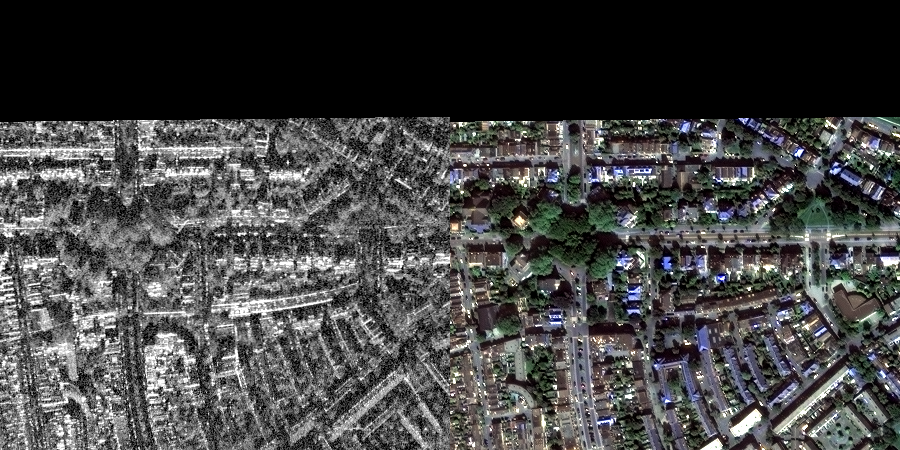
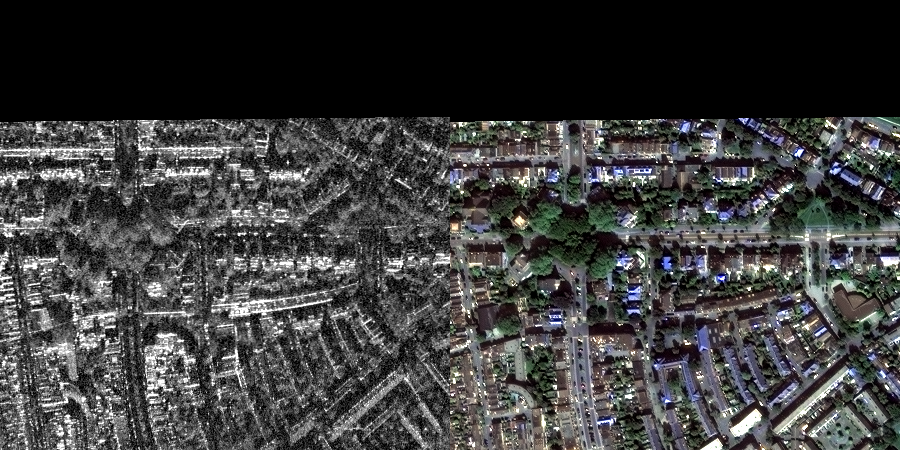
fix: treat sn6 sar intensity as db in gate0 quick-look (#4)

Changed region(s): [[0.0, 0.2489, 0.4978, 1.0], [0.4667, 0.2489, 0.4978, 0.28]]

diff --git a/scripts/gate0_check.py b/scripts/gate0_check.py
@@ -53,7 +53,8 @@ def main() -> None:
     print(f"same CRS + geotransform: {same_grid}")
 
     with tempfile.TemporaryDirectory() as tmp:
-        sar_img = render_quicklook(sar, Path(tmp) / "sar.png", [1], max_size=450, sar_db=True)
+        # SN6 SAR-Intensity is already 10*log10 (dB); no second log here.
+        sar_img = render_quicklook(sar, Path(tmp) / "sar.png", [1], max_size=450)
         opt_img = render_quicklook(opt, Path(tmp) / "opt.png", [1, 2, 3], max_size=450)
     side = np.hstack([cv2.cvtColor(sar_img, cv2.COLOR_GRAY2RGB), opt_img])
     a.out.mkdir(parents=True, exist_ok=True)

diff --git a/src/geoinfer/io/quicklook.py b/src/geoinfer/io/quicklook.py
@@ -102,7 +102,8 @@ def render_quicklook(
     max_size
         Longest side of the output in pixels.
     sar_db
-        Convert linear SAR intensity to dB (``10 * log10``) before stretching.
+        Convert linear SAR intensity to dB (``10 * log10``) before stretching. Leave
+        False for SpaceNet 6 SAR-Intensity, which is already in dB.
 
     Returns
     -------
